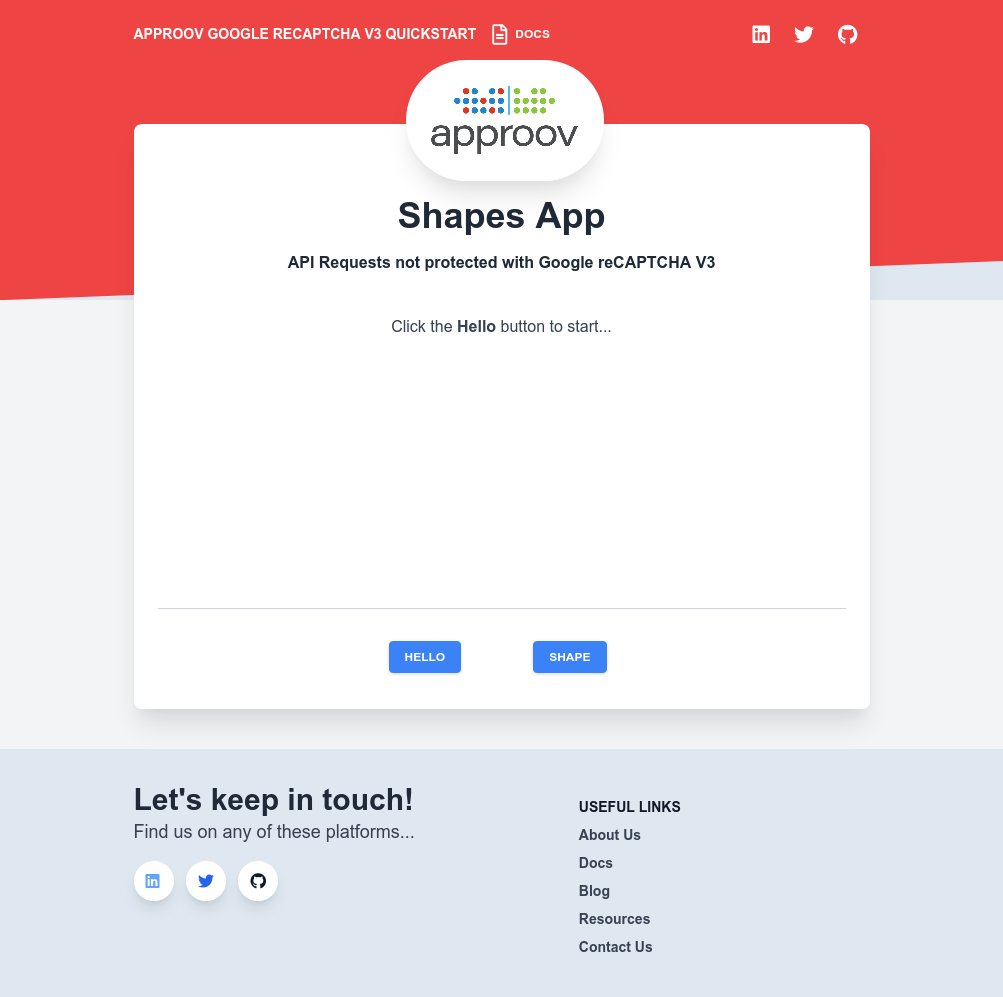
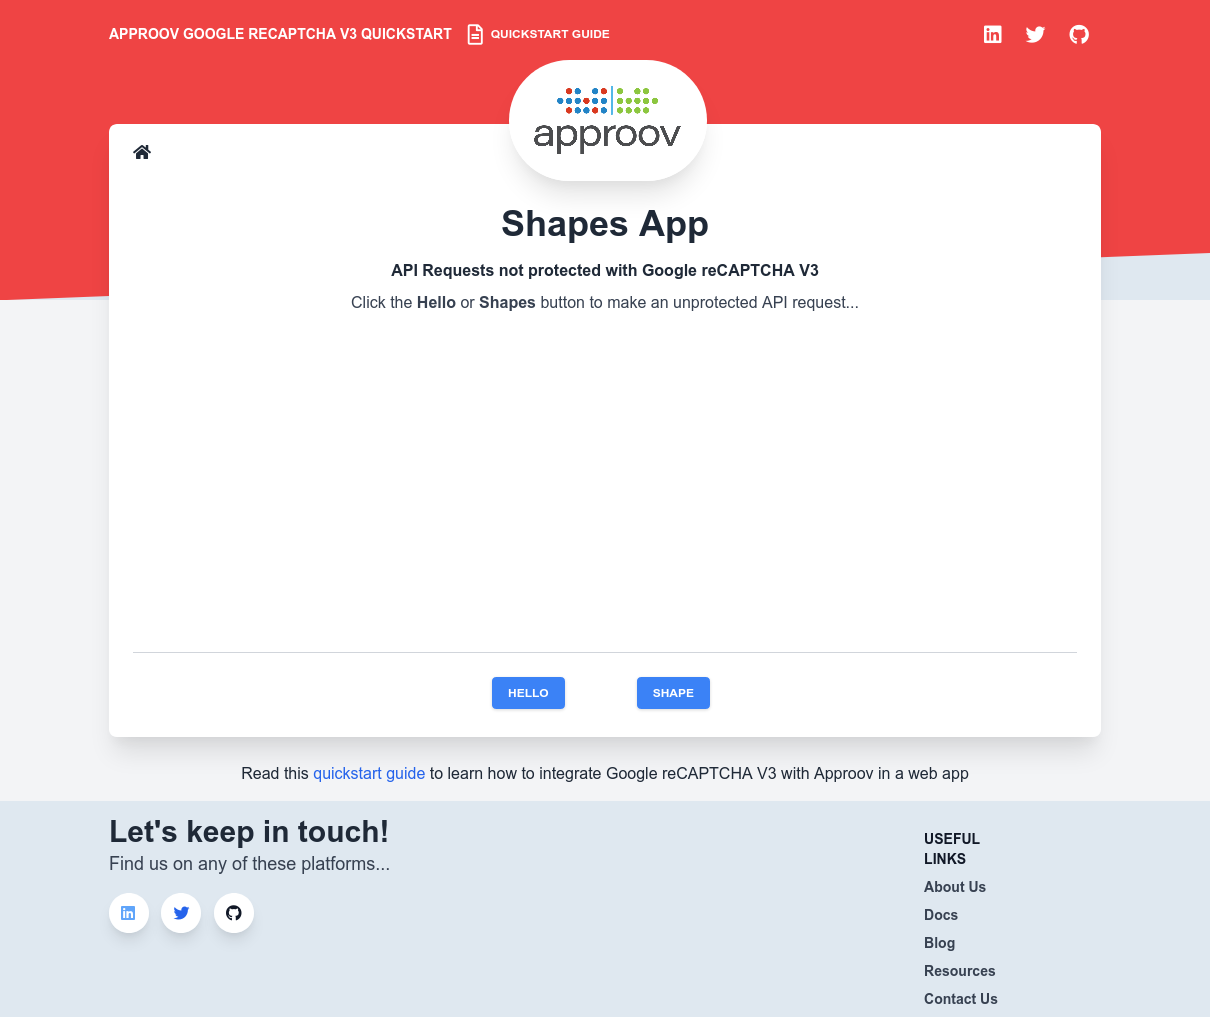
Updated quickstart screenshots. Small improvment to the API request feedback sentence in the unprotected web app.

diff --git a/shapes-app/unprotected/index.html b/shapes-app/unprotected/index.html
@@ -159,7 +159,7 @@
                   <div id="shape" class="hidden"><!-- <img src="assets/img/triangle.png" class="m-auto"> --></div>
                   <div id="success" class="hidden pt-2">
                     <p>200: OK</p>
-                    <p>The backend is not able to know if the API request was due to a human using the web app or not</p>
+                    <p>The backend is not able to know if the API request was caused by a human using the web app or not</p>
                   </div>
                 </div>
               </div>

diff --git a/README.md b/README.md
@@ -292,6 +292,7 @@ function fetchApproovToken(recaptchaToken) {
       return response.text() // return the token on success
     })
 }
+
 // function addRequestHeaders() {...}
 ```
 
